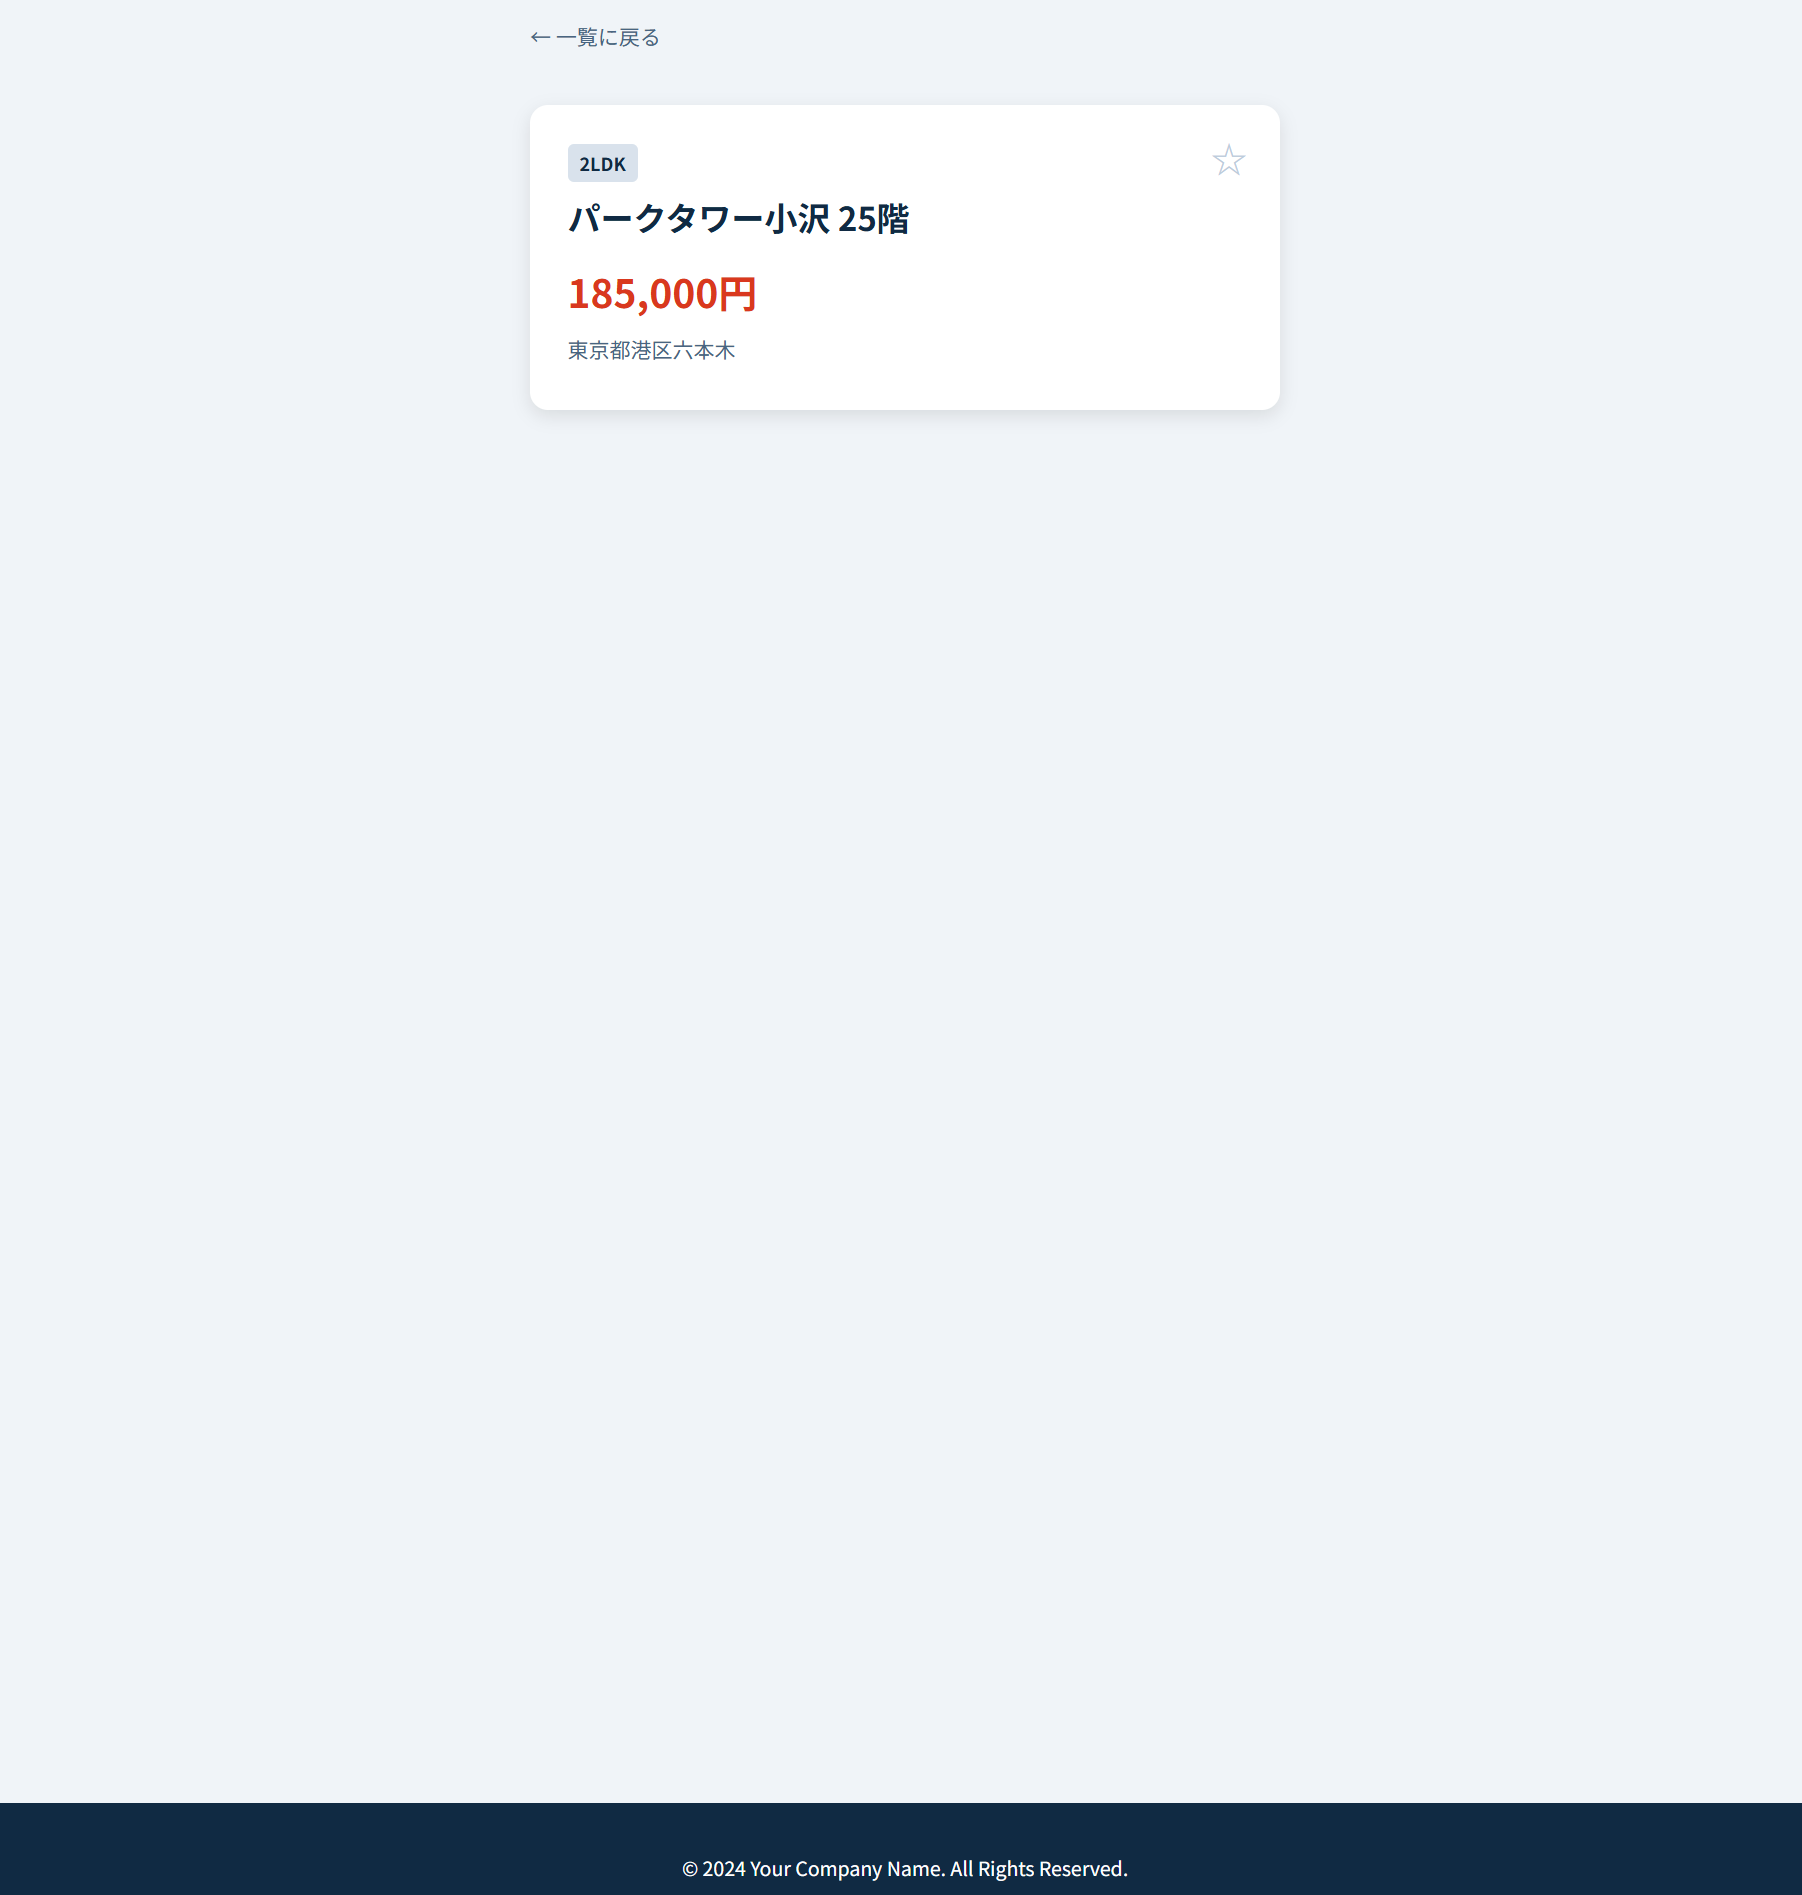
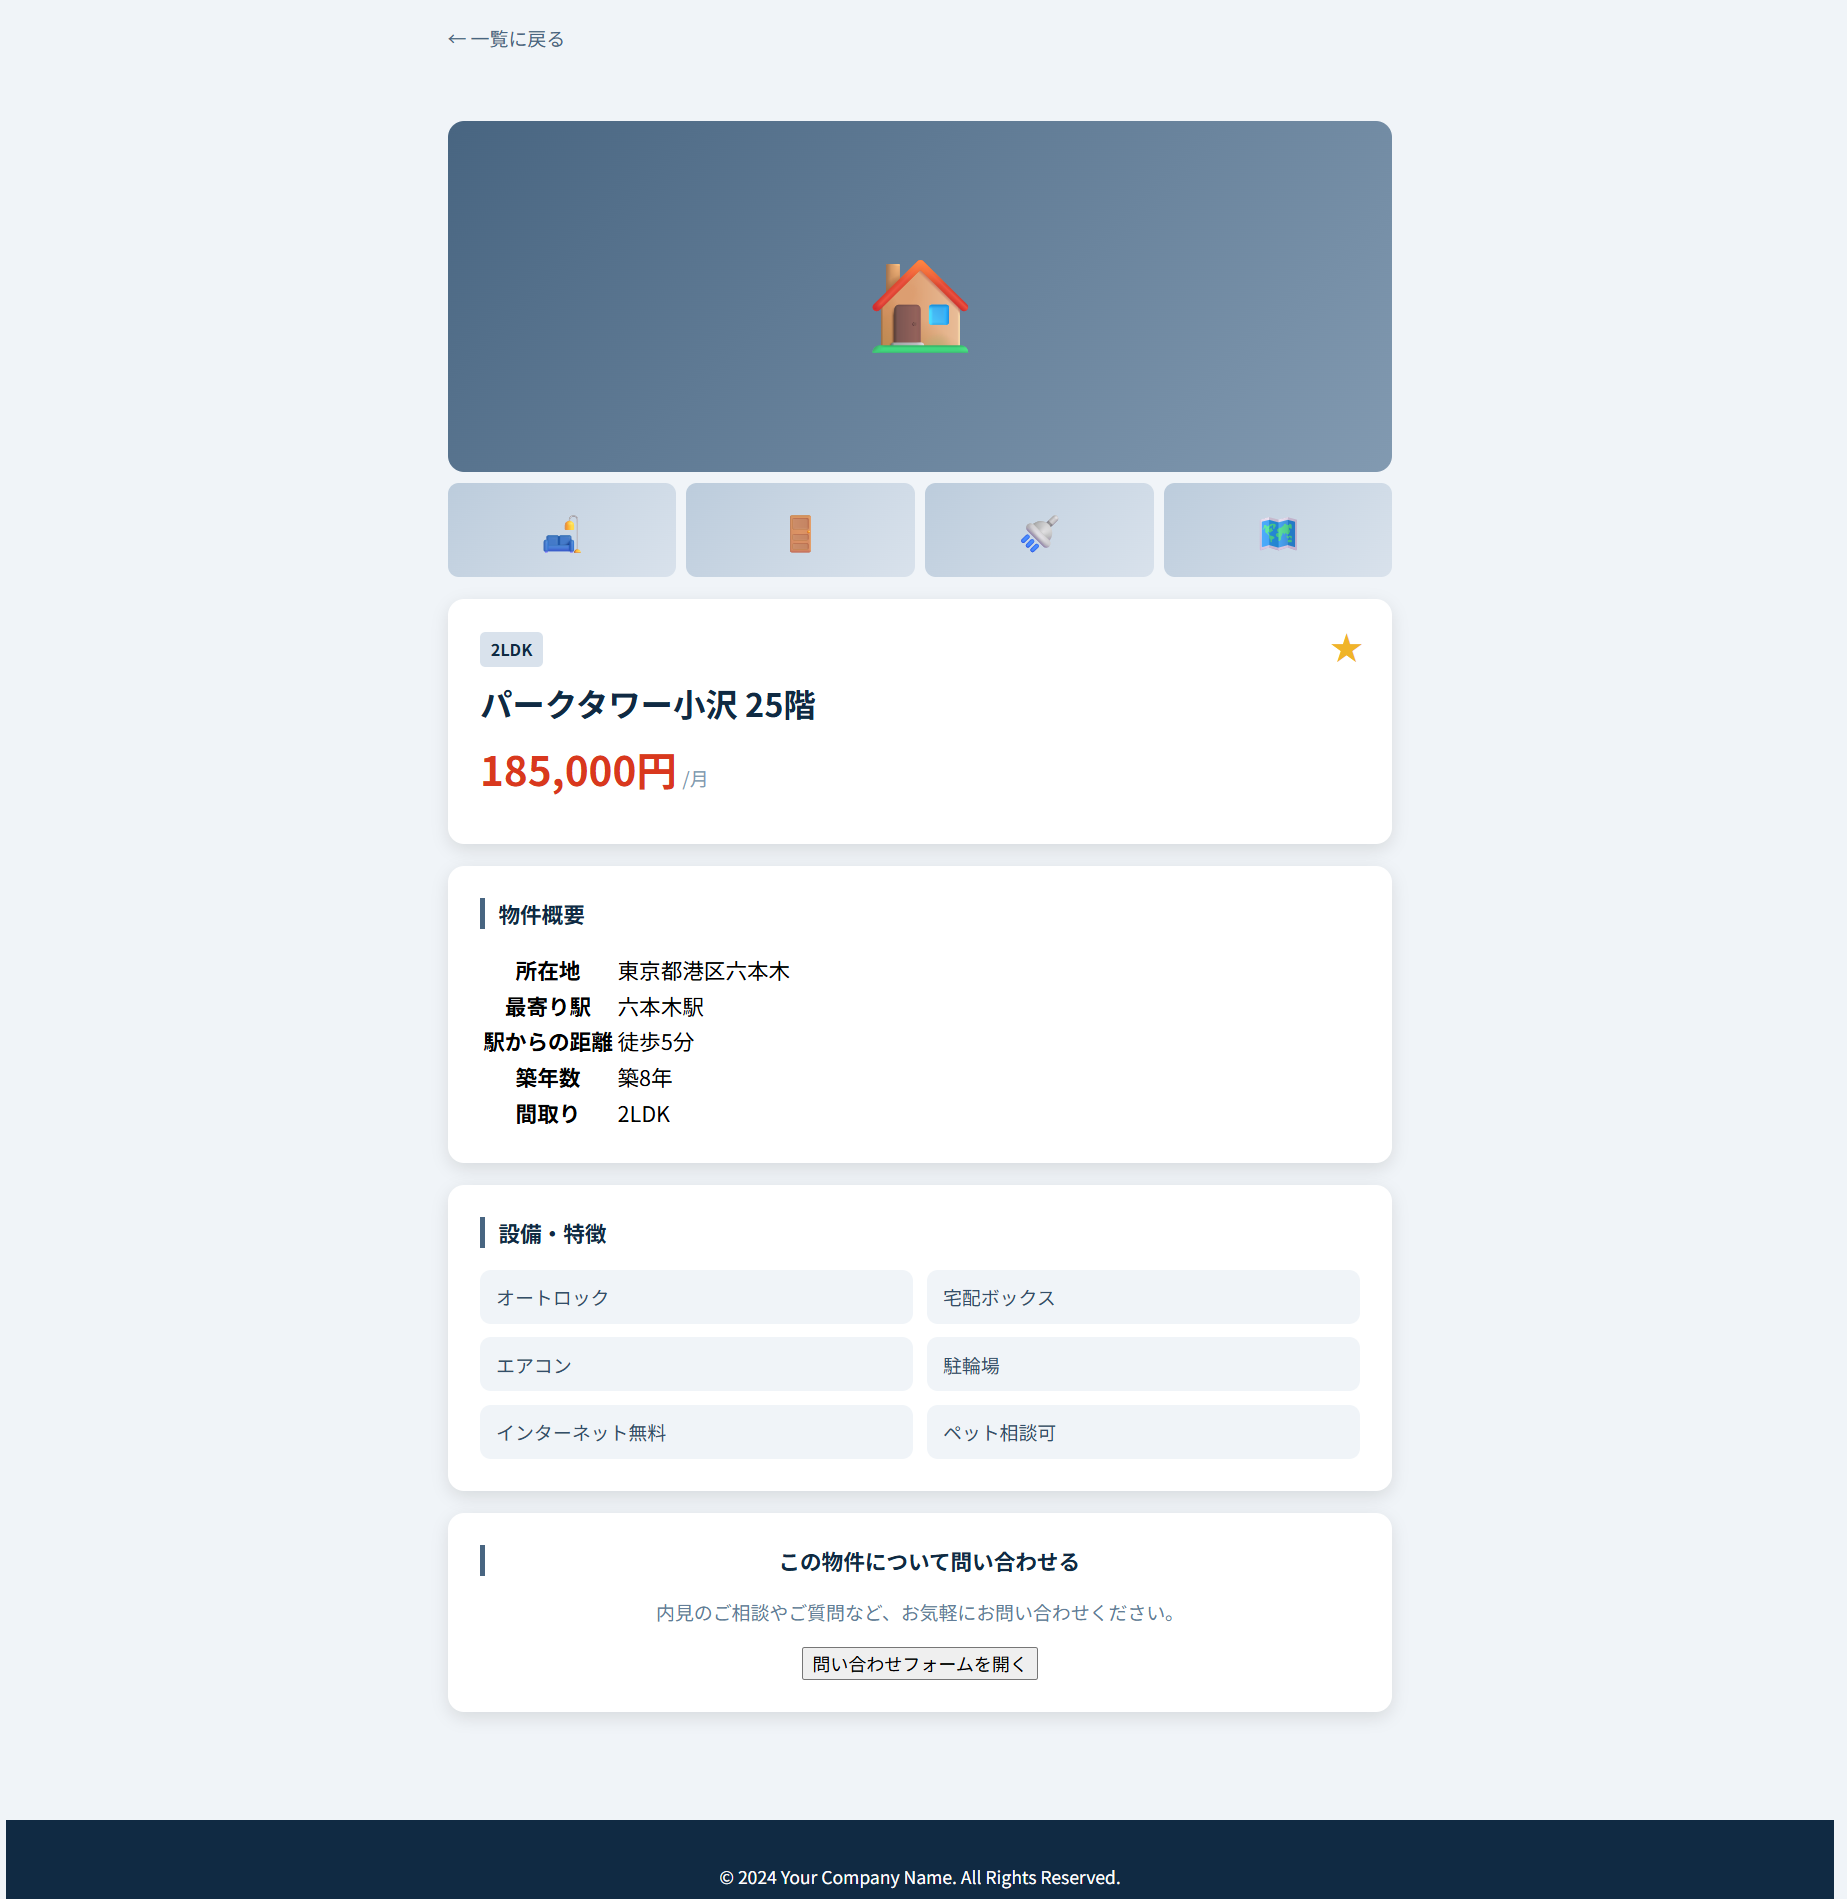
物件詳細ページを不動産サイト風に刷新し、問い合わせフォームを追加
- 画像ギャラリー・物件概要テーブル・設備セクションを追加
- 問い合わせフォーム(バリデーション付き)を実装
- Java環境差異を解決

diff --git a/src/main/resources/templates/property-detail.html b/src/main/resources/templates/property-detail.html
@@ -7,7 +7,7 @@
     <link rel="stylesheet" th:href="@{/css/style.css}">
 </head>
 <body>
-<script>
+<script src="https://unpkg.com/lucide@latest/dist/umd/lucide.js">
     function getFavorites() {
         const saved = localStorage.getItem('favoriteProperties');
         return saved ? JSON.parse(saved) : [];
@@ -26,13 +26,14 @@
 
         if (favorites.includes(id)) {
             favorites = favorites.filter(favId => favId !== id);
-            btn.textContent = '☆';
+            btn.innerHTML = '<i data-lucide="star"></i>';
             btn.classList.remove('active');
         } else {
             favorites.push(id);
-            btn.textContent = '★';
+            btn.innerHTML = '<i data-lucide="star"></i>';
             btn.classList.add('active');
         }
+        lucide.createIcons();
 
         saveFavorites(favorites);
     }
@@ -83,7 +84,10 @@
         document.getElementById('contactSuccessView').style.display = 'block';
     }
 
-    document.addEventListener('DOMContentLoaded', applyFavoriteState);
+    document.addEventListener('DOMContentLoaded', () => {
+        applyFavoriteState();
+        lucide.createIcons();
+    });
 </script>
 
 <header>
@@ -93,17 +97,17 @@
         <div th:if="${property != null}">
 
             <div class="gallery">
-                <div class="gallery-main">🏠</div>
+                <div class="gallery-main"><i data-lucide="home"></i></div>
                 <div class="gallery-thumbs">
-                    <div class="gallery-thumb">🛋</div>
-                    <div class="gallery-thumb">🚪</div>
-                    <div class="gallery-thumb">🚿</div>
-                    <div class="gallery-thumb">🗺</div>
+                    <div class="gallery-thumb"><i data-lucide="sofa"></i></div>
+                    <div class="gallery-thumb"><i data-lucide="door-open"></i></div>
+                    <div class="gallery-thumb"><i data-lucide="shower-head"></i></div>
+                    <div class="gallery-thumb"><i data-lucide="map"></i></div>
                 </div>
             </div>
 
             <div class="detail-header">
-                <button type="button" class="favorite-btn" th:attr="data-id=${property.id}" onclick="toggleFavorite(event, this)">☆</button>
+                <button type="button" class="favorite-btn" th:attr="data-id=${property.id}" onclick="toggleFavorite(event, this)"><i data-lucide="star"></i></button>
                 <span class="badge" th:text="${property.layout}">1K</span>
                 <h1 th:text="${property.name}">物件名</h1>
                 <p class="price"><span th:text="${property.price}">家賃</span><small>/月</small></p>
@@ -138,12 +142,12 @@
             <section class="detail-section">
                 <h3 class="section-title">設備・特徴</h3>
                 <ul class="feature-list">
-                    <li>オートロック</li>
-                    <li>宅配ボックス</li>
-                    <li>エアコン</li>
-                    <li>駐輪場</li>
-                    <li>インターネット無料</li>
-                    <li>ペット相談可</li>
+                    <li><i data-lucide="lock" class="inline-icon"></i> オートロック</li>
+                    <li><i data-lucide="package" class="inline-icon"></i> 宅配ボックス</li>
+                    <li><i data-lucide="snowflake" class="inline-icon"></i> エアコン</li>
+                    <li><i data-lucide="bike" class="inline-icon"></i> 駐輪場</li>
+                    <li><i data-lucide="wifi" class="inline-icon"></i> インターネット無料</li>
+                    <li><i data-lucide="paw-print" class="inline-icon"></i> ペット相談可</li>
                 </ul>
             </section>
 
@@ -160,7 +164,7 @@
 </header>
 
 <footer>
-    <p>&copy; 2024 Your Company Name. All Rights Reserved.</p>
+    <p>&copy; 2024 株式会社レジデンス東京. All Rights Reserved.</p>
 </footer>
 
 <div class="modal-overlay" id="contactModal">

diff --git a/src/main/resources/templates/property.html b/src/main/resources/templates/property.html
@@ -7,7 +7,7 @@
     <link rel="stylesheet" th:href="@{/css/style.css}">
 </head>
 <body>
-<script>
+<script src="https://unpkg.com/lucide@latest/dist/umd/lucide.js">
     function parsePrice(priceStr) {
         if (!priceStr) return 0;
         return parseInt(priceStr.replace(/[^0-9]/g, ''), 10) || 0;
@@ -163,6 +163,7 @@
     document.addEventListener('DOMContentLoaded', () => {
         applyFavoriteState();
         applyFavoritesFilter();
+        lucide.createIcons();
     });
 </script>
 
@@ -188,13 +189,11 @@
                th:attr="data-price=${p.price}, data-id=${p.id}"
                class="card-link">
                 <div class="card">
-                    <button type="button" class="favorite-btn" onclick="toggleFavorite(event, this)">☆</button>
+                    <button type="button" class="favorite-btn" onclick="toggleFavorite(event, this)"><i data-lucide="star"></i></button>
                     <span class="badge" th:text="${p.layout}">1K</span>
                     <h2 th:text="${p.name}">物件名</h2>
                     <p class="price" th:text="${p.price}">家賃</p>
-                    <div class="detail-item">
-                        <span th:text="${p.location}">住所</span>
-                    </div>
+                    <i data-lucide="map-pin" class="inline-icon"></i> 所在地: <span th:text="${p.location}">住所</span>
                 </div>
             </a>
         </div>
@@ -202,7 +201,7 @@
 </header>
 
 <footer>
-    <p>&copy; 2024 Your Company Name. All Rights Reserved.</p>
+    <p>&copy; 2024 株式会社レジデンス東京. All Rights Reserved.</p>
 </footer>
 
 </body>

diff --git a/src/main/resources/static/css/style.css b/src/main/resources/static/css/style.css
@@ -467,6 +467,50 @@ footer {
     display: block;
 }
 
+[data-lucide] {
+    width: 20px;
+    height: 20px;
+    stroke-width: 2;
+}
+
+.inline-icon {
+    width: 16px;
+    height: 16px;
+    vertical-align: -3px;
+    margin-right: 2px;
+}
+
+.favorite-btn [data-lucide] {
+    color: #bcccdc;
+    fill: none;
+}
+
+.favorite-btn.active [data-lucide] {
+    color: #f0b429;
+    fill: #f0b429;
+}
+
+.gallery-main [data-lucide] {
+    width: 64px;
+    height: 64px;
+    color: white;
+}
+
+.gallery-thumb [data-lucide] {
+    width: 28px;
+    height: 28px;
+    color: #486581;
+}
+
+.feature-list li {
+    display: flex;
+    align-items: center;
+}
+
+.feature-list [data-lucide] {
+    color: #486581;
+}
+
 @media (max-width: 600px) {
     .gallery-main {
         height: 180px;
